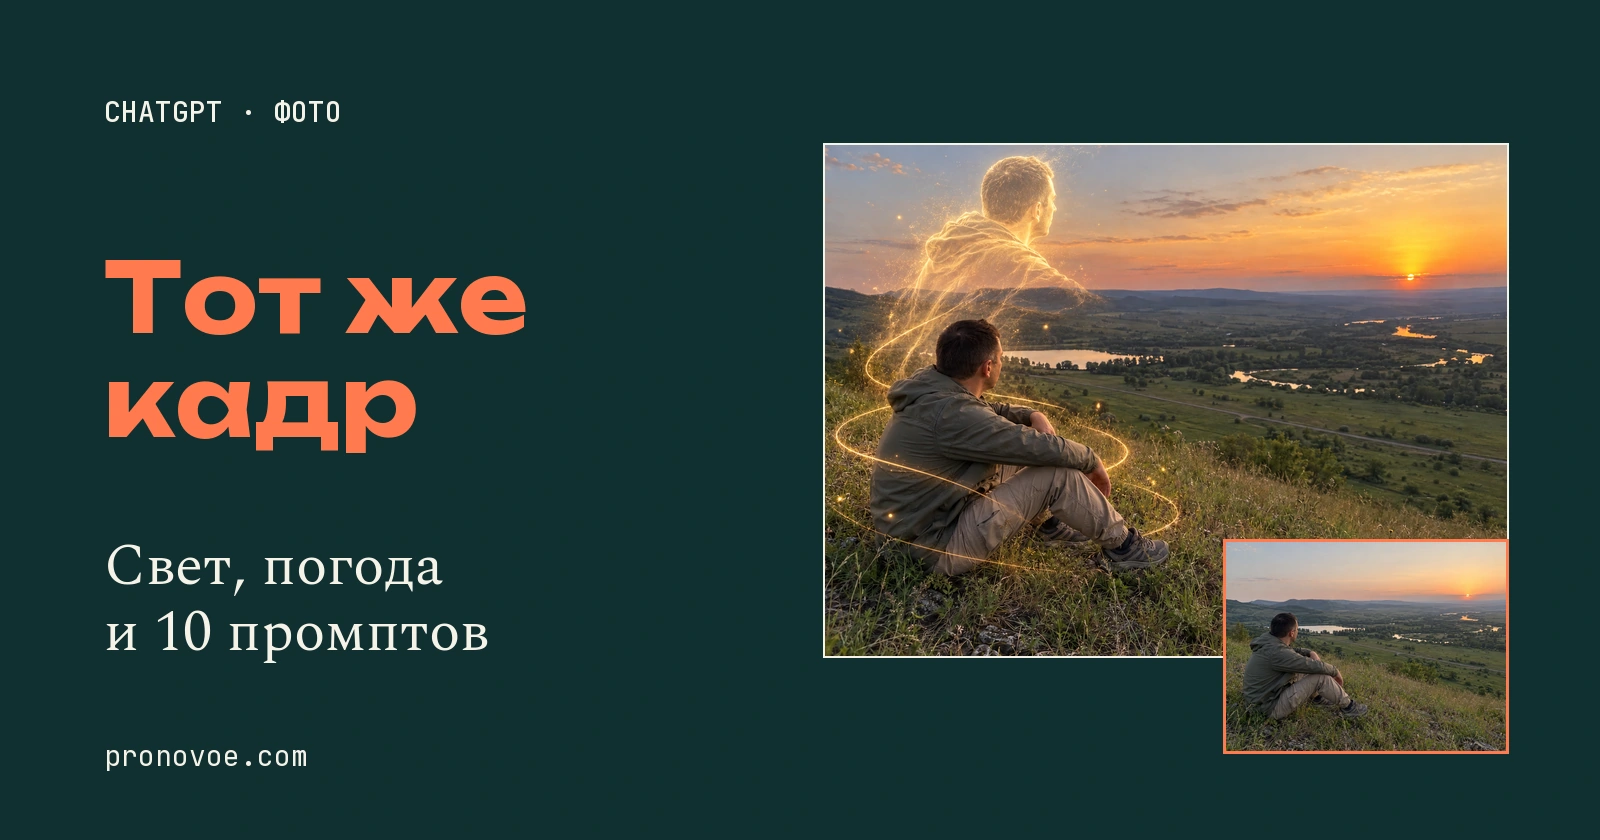
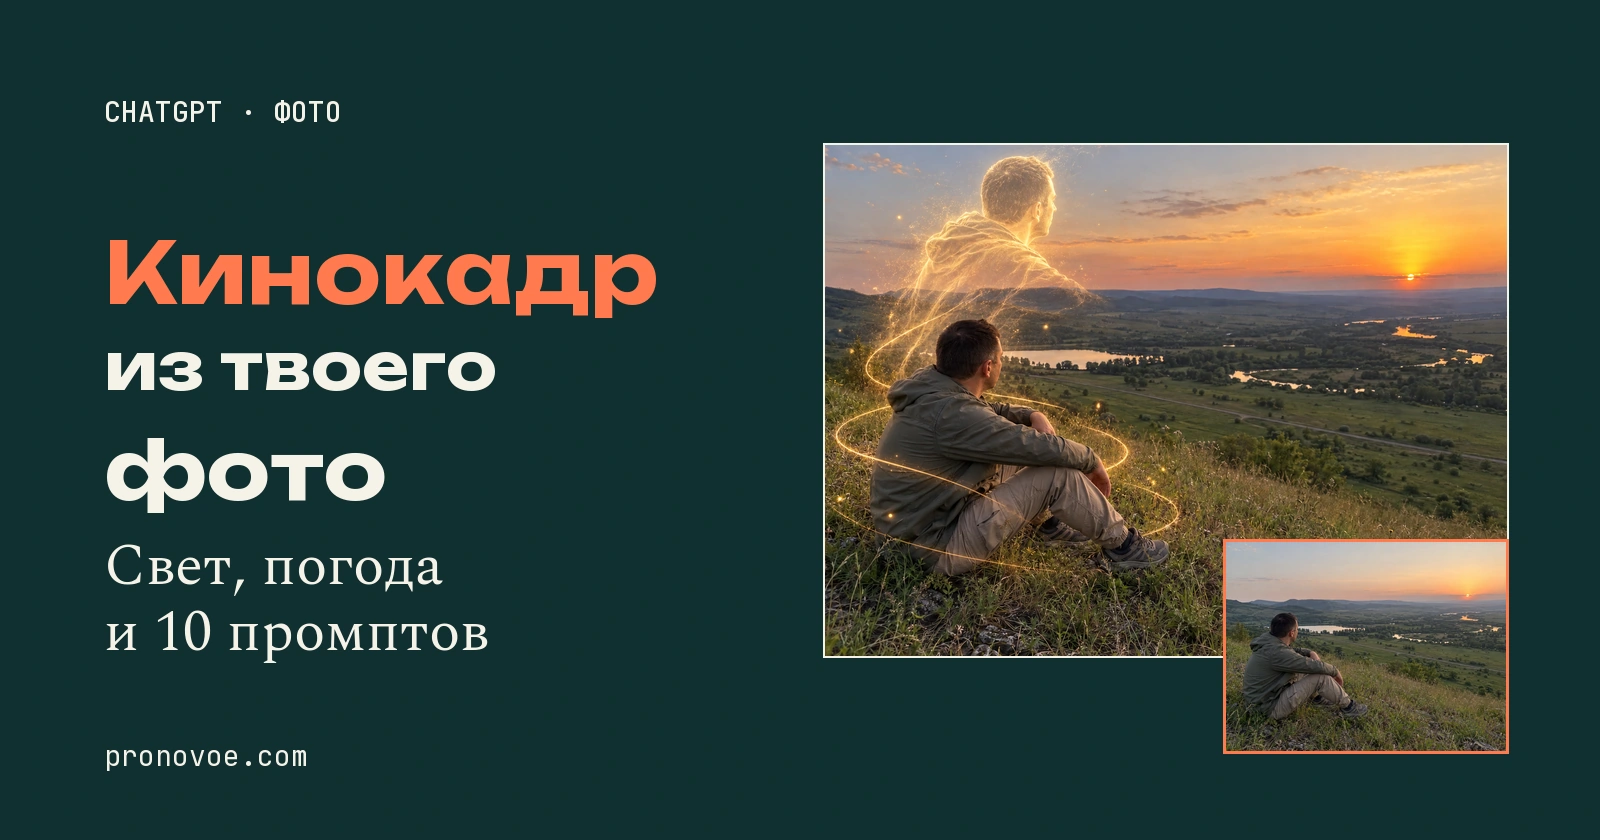
Обновить обложку: Кинокадр из твоего фото, оранжевый и белый заголовок

Changed region(s): [[0.0625, 0.2786, 0.4375, 0.619]]

diff --git a/claude-ai/10-fotoeffektov-v-chatgpt/index.html b/claude-ai/10-fotoeffektov-v-chatgpt/index.html
@@ -13,7 +13,7 @@
 <meta property="og:image:height" content="840">
 <meta name="twitter:card" content="summary_large_image">
 <meta name="twitter:image" content="https://pronovoe.com/claude-ai/10-fotoeffektov-v-chatgpt/assets/oblozhka.webp">
-<meta property="og:image:alt" content="Тот же кадр: десять фотоэффектов и пары до и после">
+<meta property="og:image:alt" content="Кинокадр из твоего фото: десять эффектов и пары до и после">
 <!-- critical:fonts:start -->
 <!-- palette:start -->
 <style id="guide-palette">
@@ -778,7 +778,7 @@ html { scroll-padding-bottom: calc(var(--cookie-height, 0px) + 16px) }
 <div class="header-actions"><div class="handout-title">ChatGPT: 10 фотоэффектов</div><div class="header-controls">
 <button class="theme-toggle" type="button" aria-label="Переключить тему" title="Переключить тему">◐</button>
 </div></div></div></header>
-<div class="page-shell"><nav class="toc" aria-label="Содержание"><p class="toc-label">В статье.</p><a href="#pochemu">Почему меняется само фото</a><a href="#osnova">Что сохранить в промпте</a><a href="#kak-povtorit">Как повторить эффект</a><a href="#siluet">Светящийся силуэт</a><a href="#tuman">Туман</a><a href="#meteor">Метеор</a><a href="#luna">Лунный свет</a><a href="#dozhd">Дождливая ночь</a><a href="#zvezdopad">Звездопад</a><a href="#osen">Осень</a><a href="#sneg">Снегопад</a><a href="#vspyshka">Винтажная вспышка</a><a href="#film">Кадр фильма</a><a href="#pamyatka">Памятка</a><a href="#svoy-effekt">Как придумать свой эффект</a><a href="#voprosy">Частые вопросы</a><a href="#dalshe">Что делать с серией</a></nav><main><article><header id="nachalo"><p class="eyebrow">Инструкция · ChatGPT · Фото.</p><figure class="cover cover-v2"><img src="assets/oblozhka.webp" width="1600" height="840" alt="Тот же кадр: 10 фотоэффектов. Справа исходник и золотой светящийся силуэт" loading="eager" decoding="async" fetchpriority="high"><figcaption>Сравнения до и после, русские промпты и сохранение исходного кадра</figcaption></figure><h1 class="article-standard-h1">10 фотоэффектов в ChatGPT: примеры до и после и промпты</h1><p class="uroven-metka green" style="display:inline-block;margin:16px 0 0;padding:5px 12px;border-radius:999px;background:var(--guide-color-success-paper);color:var(--guide-color-success-ink);font:700 13px/1.3 -apple-system,BlinkMacSystemFont,&quot;Segoe UI&quot;,Arial,sans-serif">Начальный уровень</p><p class="lead">Просишь ChatGPT добавить эффект к фото, а он заодно меняет человека и фон. Здесь все десять эффектов сделаны из одного исходника: мужчина сидит на холме над рекой. Под каждым результатом показано это же фото до обработки, рядом - полный промпт. Разберём, какие условия в запросе помогают сохранить исходный кадр.</p><p>Все промпты ниже написаны под показанный здесь снимок. Если ты загрузишь в <a href="https://chatgpt.com/" target="_blank" rel="noopener">ChatGPT</a> свою фотографию вместо нашего исходника, описание мужчины, одежды и пейзажа в запросе нужно заменить описанием твоего фото. Как это сделать, показано в разделе <a href="#kak-povtorit">«Как повторить эффект на своём фото»</a>.</p><p class="meta">ОБНОВЛЕНО 20 ОКТЯБРЯ 2026.</p>
+<div class="page-shell"><nav class="toc" aria-label="Содержание"><p class="toc-label">В статье.</p><a href="#pochemu">Почему меняется само фото</a><a href="#osnova">Что сохранить в промпте</a><a href="#kak-povtorit">Как повторить эффект</a><a href="#siluet">Светящийся силуэт</a><a href="#tuman">Туман</a><a href="#meteor">Метеор</a><a href="#luna">Лунный свет</a><a href="#dozhd">Дождливая ночь</a><a href="#zvezdopad">Звездопад</a><a href="#osen">Осень</a><a href="#sneg">Снегопад</a><a href="#vspyshka">Винтажная вспышка</a><a href="#film">Кадр фильма</a><a href="#pamyatka">Памятка</a><a href="#svoy-effekt">Как придумать свой эффект</a><a href="#voprosy">Частые вопросы</a><a href="#dalshe">Что делать с серией</a></nav><main><article><header id="nachalo"><p class="eyebrow">Инструкция · ChatGPT · Фото.</p><figure class="cover cover-v2"><img src="assets/oblozhka.webp" width="1600" height="840" alt="Кинокадр из твоего фото. Справа исходник и золотой светящийся силуэт" loading="eager" decoding="async" fetchpriority="high"><figcaption>Сравнения до и после, русские промпты и сохранение исходного кадра</figcaption></figure><h1 class="article-standard-h1">10 фотоэффектов в ChatGPT: примеры до и после и промпты</h1><p class="uroven-metka green" style="display:inline-block;margin:16px 0 0;padding:5px 12px;border-radius:999px;background:var(--guide-color-success-paper);color:var(--guide-color-success-ink);font:700 13px/1.3 -apple-system,BlinkMacSystemFont,&quot;Segoe UI&quot;,Arial,sans-serif">Начальный уровень</p><p class="lead">Просишь ChatGPT добавить эффект к фото, а он заодно меняет человека и фон. Здесь все десять эффектов сделаны из одного исходника: мужчина сидит на холме над рекой. Под каждым результатом показано это же фото до обработки, рядом - полный промпт. Разберём, какие условия в запросе помогают сохранить исходный кадр.</p><p>Все промпты ниже написаны под показанный здесь снимок. Если ты загрузишь в <a href="https://chatgpt.com/" target="_blank" rel="noopener">ChatGPT</a> свою фотографию вместо нашего исходника, описание мужчины, одежды и пейзажа в запросе нужно заменить описанием твоего фото. Как это сделать, показано в разделе <a href="#kak-povtorit">«Как повторить эффект на своём фото»</a>.</p><p class="meta">ОБНОВЛЕНО 20 ОКТЯБРЯ 2026.</p>
 <!-- seo:breadcrumbs:start -->
 <nav aria-label="Хлебные крошки" style="margin:12px 0;font:14px/1.5 -apple-system,BlinkMacSystemFont,Arial,sans-serif"><a href="/">Инструкции по нейросетям</a> <span aria-hidden="true"> / </span><span aria-current="page">10 фотоэффектов в ChatGPT: примеры до и после и промпты</span></nav>
 <!-- seo:breadcrumbs:end -->
